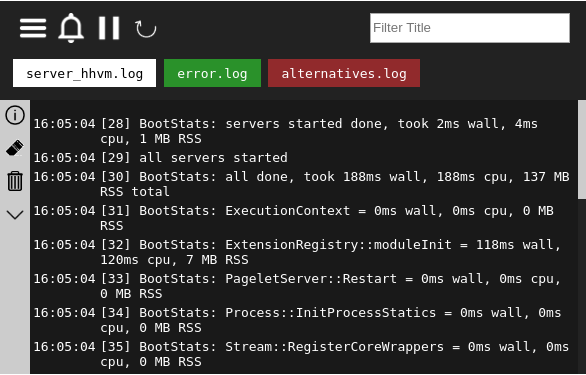
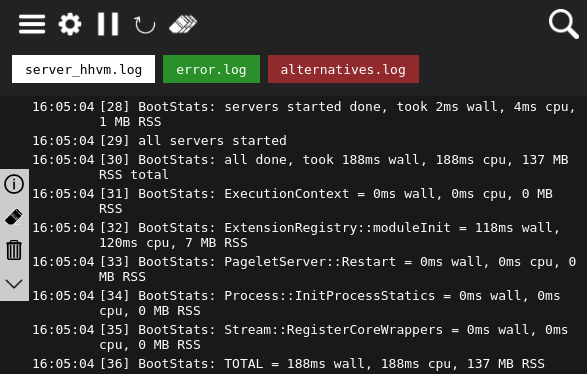
Changed theme example and repo image

diff --git a/core/Themes/example.php b/core/Themes/example.php
@@ -35,7 +35,7 @@
 				<img class="menuImage" src="<?php echo $theme; ?>/img/eraserMulti.png" height="30px">
 			</div>
 			<div style="float: right;">
-				<input type="search" placeholder="Filter Title" style="height: 30px; width: 200px;">
+				<img class="menuImage" src="<?php echo $theme; ?>/img/search.png" height="30px">
 			</div>
 		</div>
 		<a class="varwwwhtmlvarlogauthnetcimlogButton active" >server_hhvm.log</a>
